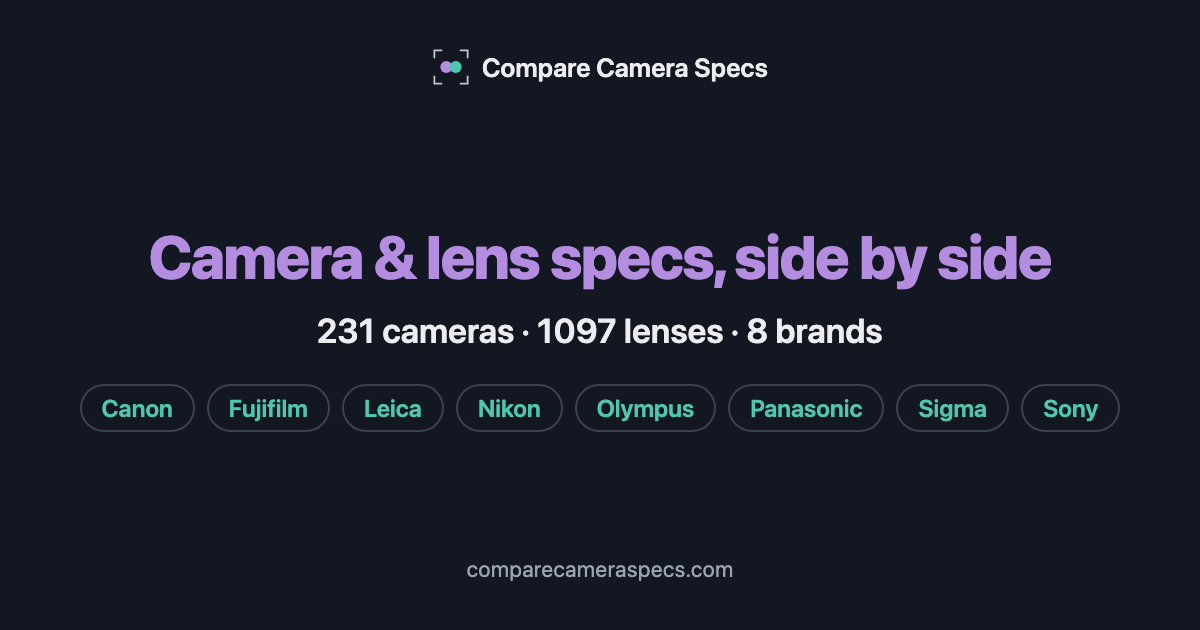
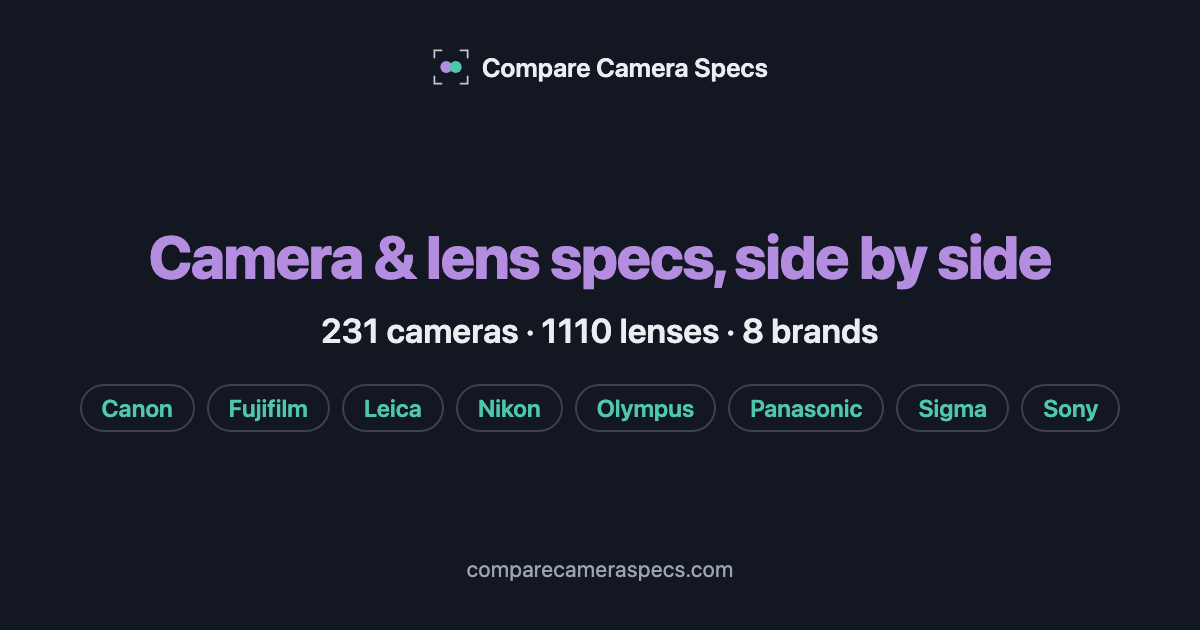
Nikon: add Thypoch Simera 28/35/50 and 10 SG-image Z lenses; fix Simera photos
- Thypoch Simera 28/35/50 from thypoch.com's per-mount tables (Z column),
  USD = Z variant regular price.
- SG-image: the 10 lenses on sony/ are all sold in Z; one spec card covers
  every mount, so the entries are cloned with mount z.
- Simera 35's main shots (and sony's Simera 28/35 images) show the Leica-M
  barrel: sony 28 now uses its Sony E variant image; sony/nikon 35 use a
  hooded shot with the mount hidden.

Claude-Session: https://claude.ai/code/session_01FYKXhtYCHKNL3CJLW6oPDG

Changed region(s): [[0.2467, 0.4825, 0.74, 0.5429]]

diff --git a/nikon/data.js b/nikon/data.js
@@ -2978,6 +2978,228 @@ const LENSES = {
     productUrl:'https://www.zeiss.com/photonics-and-optics/us/photography/products/lenses-for-mirrorless-system-cameras/otus-ml-lenses.html',
   },
 
+  /* ── Thypoch / SG-image (Nikon missing-lens pass, 2026-10-21) ── */
+  'thypoch-simera-28mm-f14': {
+    name:'Thypoch Simera 28mm f/1.4', manufacturer:'Thypoch', line:'Simera', type:'Prime',
+    mount:'z', focalLength:28, focalLengthMin:null, focalLengthMax:null, focalLengthEquiv:'28mm',
+    maxAperture:1.4, minAperture:16, weight:368, length:72.1, diameter:54,
+    filterThread:49, minFocusDist:40, maxMagnification:null,
+    elements:11, groups:7, blades:14, afType:'Manual',
+    weatherSealed:false, ois:false, oisStops:null, year:2024, discontinued:false,
+    imageUrl:'https://cdn.shopify.com/s/files/1/0756/5937/8928/files/Simera-28mm-f-1.4-Z-M-E-RF-X-Mount-Full-Frame-Manual-Lens-Thypoch-15970383.png',
+    imageSource: { url:'https://store.thypoch.com/products/simera-28mm-f-1-4-e-rf-x-z-mount', tier:'T1', title:'Thypoch official store', note:'the Black / Nikon Z Mount variant\'s own image', date:'2026-10-21' },
+    asin:null,
+    prices:{USD:549,AUD:null,EUR:null,GBP:null,JPY:null,CAD:null,SGD:null},
+    specSources: [{ url:'https://thypoch.com/en/simera/28mm', tier:'T1', title:'Thypoch Simera 28mm f/1.4 - Thypoch official page', note:'per-mount spec table (columns M/Z/RF/E/X), Z column: 72.1mm long without hood, ≈368g, flange 16mm; shared: front ø54mm, 11/7, 14 blades, 0.4m from the sensor plane, ø49 filter, f/1.4-16', date:'2026-10-21' }],
+    priceSource: { url:'https://store.thypoch.com/products/simera-28mm-f-1-4-e-rf-x-z-mount', tier:'T1', title:'Thypoch official store', note:'"Black / Nikon Z Mount" variant regular (compare-at) price $549; on sale at $399 at the time; store products.json 2026-10-21; non-USD not examined', date:'2026-10-21' },
+    priceIncomplete:true,
+    productUrl:'https://store.thypoch.com/products/simera-28mm-f-1-4-e-rf-x-z-mount',
+  },
+
+  'thypoch-simera-35mm-f14': {
+    name:'Thypoch Simera 35mm f/1.4', manufacturer:'Thypoch', line:'Simera', type:'Prime',
+    mount:'z', focalLength:35, focalLengthMin:null, focalLengthMax:null, focalLengthEquiv:'35mm',
+    maxAperture:1.4, minAperture:16, weight:309, length:66.4, diameter:54,
+    filterThread:49, minFocusDist:45, maxMagnification:null,
+    elements:9, groups:5, blades:14, afType:'Manual',
+    weatherSealed:false, ois:false, oisStops:null, year:2025, discontinued:false,
+    imageUrl:'https://cdn.shopify.com/s/files/1/0756/5937/8928/files/Simera-35mm-f-1.4-Z-M-E-RF-Mount-Full-Frame-Manual-Lens-Thypoch-103835225.png',
+    imageSource: { url:'https://store.thypoch.com/products/simera-35mm-camera-lens-f1-4', tier:'T1', title:'Thypoch official store', note:'black lens with hood, mount not visible; the listing\'s main product shots all show the shorter Leica M barrel', date:'2026-10-21' },
+    asin:null,
+    prices:{USD:549,AUD:null,EUR:null,GBP:null,JPY:null,CAD:null,SGD:null},
+    specSources: [{ url:'https://thypoch.com/en/simera/35mm', tier:'T1', title:'Thypoch Simera 35mm f/1.4 - Thypoch official page', note:'per-mount spec table (columns M/Z/RF/E), Z column: 66.4mm long without hood, ≈309g; shared: front ø54mm, 9/5, 14 blades, 0.45m from the sensor plane, ø49 filter, f/1.4-16', date:'2026-10-21' }],
+    priceSource: { url:'https://store.thypoch.com/products/simera-35mm-camera-lens-f1-4', tier:'T1', title:'Thypoch official store', note:'"Black / Nikon Z Mount / Type ii (with focus tab)" variant regular (compare-at) price $549; on sale at $369 at the time; store products.json 2026-10-21; non-USD not examined', date:'2026-10-21' },
+    priceIncomplete:true,
+    productUrl:'https://store.thypoch.com/products/simera-35mm-camera-lens-f1-4',
+  },
+
+  'thypoch-simera-50mm-f14': {
+    name:'Thypoch Simera 50mm f/1.4', manufacturer:'Thypoch', line:'Simera', type:'Prime',
+    mount:'z', focalLength:50, focalLengthMin:null, focalLengthMax:null, focalLengthEquiv:'50mm',
+    maxAperture:1.4, minAperture:16, weight:309, length:64.8, diameter:54,
+    filterThread:49, minFocusDist:45, maxMagnification:null,
+    elements:8, groups:6, blades:14, afType:'Manual',
+    weatherSealed:false, ois:false, oisStops:null, year:2025, discontinued:false,
+    imageUrl:'https://cdn.shopify.com/s/files/1/0756/5937/8928/files/Simera-50mm-f-1.4-Z-M-Full-frame-Manual-Lens-Thypoch-15975393.png',
+    imageSource: { url:'https://store.thypoch.com/products/simera-50mm-f-1-4-m-mount', tier:'T1', title:'Thypoch official store', note:'the Black / Nikon Z mount variant\'s own image', date:'2026-10-21' },
+    asin:null,
+    prices:{USD:549,AUD:null,EUR:null,GBP:null,JPY:null,CAD:null,SGD:null},
+    specSources: [{ url:'https://thypoch.com/en/simera/50mm', tier:'T1', title:'Thypoch Simera 50mm f/1.4 - Thypoch official page', note:'per-mount spec table (columns M/Z), Z column: 64.8mm long without hood, ≈309g, flange 16mm; shared: front ∮54mm, M49 filter, 8 elements in 6 groups, 14 blades, 0.45m from the sensor plane, F1.4-F16, full-frame image circle. Year from the store listing date (March 2025)', date:'2026-10-21' }],
+    priceSource: { url:'https://store.thypoch.com/products/simera-50mm-f-1-4-m-mount', tier:'T1', title:'Thypoch official store', note:'"Black / Nikon Z mount" variant regular (compare-at) price $549; on sale at $499 at the time (store products.json, 2026-10-21); non-USD not examined', date:'2026-10-21' },
+    priceIncomplete:true,
+    productUrl:'https://store.thypoch.com/products/simera-50mm-f-1-4-m-mount',
+  },
+
+  'sgimage-25mm-f18': {
+    name:'SG-image AF 25mm f/1.8', manufacturer:'SG-image', line:'AF', type:'Prime',
+    mount:'z', focalLength:25, focalLengthMin:null, focalLengthMax:null, focalLengthEquiv:'38mm',
+    maxAperture:1.8, minAperture:16, weight:145, length:32, diameter:67,
+    filterThread:52, minFocusDist:30, maxMagnification:0.1,
+    elements:7, groups:5, blades:9, afType:'Stepping Motor',
+    weatherSealed:false, ois:false, oisStops:null, year:2025, discontinued:false,
+    imageUrl:'https://cdn.shopify.com/s/files/1/0729/5051/3889/files/259055cac18bc2ff902e5a600b9c3c29.png',
+    imageSource: { url:'https://www.sg-image.com/products/aps-c-25mm-f1-8-%E8%87%AA%E5%8A%A8%E5%AF%B9%E7%84%A6%E9%95%9C%E5%A4%B4', tier:'T1', title:'SG-image official store', note:'same maker product shot as the Fujifilm entry (one listing for all mounts)', date:'2026-10-21' },
+    asin:null,
+    prices:{USD:125,AUD:null,EUR:null,GBP:null,JPY:null,CAD:null,SGD:null},
+    specSources: [{ url:'https://www.sg-image.com/products/aps-c-25mm-f1-8-%E8%87%AA%E5%8A%A8%E5%AF%B9%E7%84%A6%E9%95%9C%E5%A4%B4', tier:'T1', title:'SG-image official store', note:'Nikon Z taken from the same spec card as the Fujifilm entry, which gives one figure for all mounts (Z listed): "Specification" image (AF25.png) lists X among supported mounts: 145 g, Ø67×32 mm, 52 mm filter, 0.3 m, 1:10, 7/5, 9 blades, F1.8-F16. The same page\'s prose says "152g with a depth of 34mm"; the formal table is used (it matches the X-mount announcement figures)', date:'2026-10-21' }],
+    priceSource: { url:'https://www.sg-image.com/products/aps-c-25mm-f1-8-%E8%87%AA%E5%8A%A8%E5%AF%B9%E7%84%A6%E9%95%9C%E5%A4%B4', tier:'T1', title:'SG-image official store', note:'"黑色 / Z" variant price $125 (store products.json, 2026-10-21); non-USD not examined', date:'2026-10-21' },
+    priceIncomplete:true,
+    productUrl:'https://www.sg-image.com/products/aps-c-25mm-f1-8-%E8%87%AA%E5%8A%A8%E5%AF%B9%E7%84%A6%E9%95%9C%E5%A4%B4',
+  },
+
+  'sgimage-55mm-f18': {
+    name:'SG-image AF 55mm f/1.8', manufacturer:'SG-image', line:'AF', type:'Prime',
+    mount:'z', focalLength:55, focalLengthMin:null, focalLengthMax:null, focalLengthEquiv:'55mm',
+    maxAperture:1.8, minAperture:16, weight:365, length:78, diameter:69,
+    filterThread:58, minFocusDist:50, maxMagnification:0.11,
+    elements:10, groups:8, blades:9, afType:'Stepping Motor',
+    weatherSealed:false, ois:false, oisStops:null, year:2024, discontinued:false,
+    imageUrl:'https://cdn.shopify.com/s/files/1/0729/5051/3889/files/10df10e33f51f214ddd2996389658ca6_274e300a-8209-4454-8b8e-9882e668a19c.png',
+    imageSource: { url:'https://www.sg-image.com/products/af-55mm-f1-8', tier:'T1', title:'SG-image official store', note:'same maker product shot as the Fujifilm entry (one listing for all mounts)', date:'2026-10-21' },
+    asin:null,
+    prices:{USD:199,AUD:null,EUR:null,GBP:null,JPY:null,CAD:null,SGD:null},
+    specSources: [{ url:'https://www.sg-image.com/products/af-55mm-f1-8', tier:'T1', title:'SG-image official store', note:'Nikon Z taken from the same spec card as the Fujifilm entry, which gives one figure for all mounts (Z listed): "Specification" image (55.png), one table for E/X/Z: 365 g, Ø69×78 mm, 58 mm filter, 0.5 m, 1:9.1, 10/8, 9 blades, F1.8-F16. The maker calls it full-frame; the X-mount launch coverage called it APS-C, with identical figures', date:'2026-10-21' }],
+    priceSource: { url:'https://www.sg-image.com/products/af-55mm-f1-8', tier:'T1', title:'SG-image official store', note:'"Z" variant price $199 (store products.json, 2026-10-21); non-USD not examined', date:'2026-10-21' },
+    priceIncomplete:true,
+    productUrl:'https://www.sg-image.com/products/af-55mm-f1-8',
+  },
+
+  'sgimage-50mm-f14': {
+    name:'SG-image 50mm f/1.4', manufacturer:'SG-image', line:'MF', type:'Prime',
+    mount:'z', focalLength:50, focalLengthMin:null, focalLengthMax:null, focalLengthEquiv:'75mm',
+    maxAperture:1.4, minAperture:16, weight:249, length:42.5, diameter:58,
+    filterThread:49, minFocusDist:50, maxMagnification:0.12,
+    elements:6, groups:6, blades:10, afType:'Manual',
+    weatherSealed:false, ois:false, oisStops:null, year:2025, discontinued:false,
+    imageUrl:'https://cdn.shopify.com/s/files/1/0729/5051/3889/files/50mm_1.4.png',
+    imageSource: { url:'https://www.sg-image.com/products/mf-25mm-f2-8-aps-c-lens-copy', tier:'T1', title:'SG-image official store', note:'same maker product shot as the Fujifilm entry (one listing for all mounts)', date:'2026-10-21' },
+    asin:null,
+    prices:{USD:68,AUD:null,EUR:null,GBP:null,JPY:null,CAD:null,SGD:null},
+    specSources: [{ url:'https://www.sg-image.com/products/mf-25mm-f2-8-aps-c-lens-copy', tier:'T1', title:'SG-image 50mm f/1.4 official store page', note:'Nikon Z taken from the same spec card as the Fujifilm entry, which gives one figure for all mounts (Z listed): Specification card image: 6/6, 10 blades, 0.5m, 1:8.3, ø49 filter, approx. 249g, ø58 x 42.5mm (the store handle is recycled from a 25mm f/2.8 listing; title and spec card are the 50mm f/1.4). One figure for all mounts (E/X/Z/M43/EOS-M/R/L). Year from the store listing date (Aug 2025); the lens may have shipped earlier', date:'2026-10-21' }],
+    priceSource: { url:'https://www.sg-image.com/products/mf-25mm-f2-8-aps-c-lens-copy', tier:'T1', title:'SG-image official store', note:'"Z" variant price $68 (store products.json, 2026-10-21); non-USD not examined', date:'2026-10-21' },
+    priceIncomplete:true,
+    productUrl:'https://www.sg-image.com/products/mf-25mm-f2-8-aps-c-lens-copy',
+  },
+
+  'sgimage-35mm-f12': {
+    name:'SG-image 35mm f/1.2', manufacturer:'SG-image', line:'MF', type:'Prime',
+    mount:'z', focalLength:35, focalLengthMin:null, focalLengthMax:null, focalLengthEquiv:'53mm',
+    maxAperture:1.2, minAperture:16, weight:200, length:33, diameter:59,
+    filterThread:46, minFocusDist:40, maxMagnification:0.11,
+    elements:6, groups:5, blades:9, afType:'Manual',
+    weatherSealed:false, ois:false, oisStops:null, year:2025, discontinued:false,
+    imageUrl:'https://cdn.shopify.com/s/files/1/0729/5051/3889/files/35_1.2.png',
+    imageSource: { url:'https://www.sg-image.com/products/mf-35mm-f1-2-aps-c-lens', tier:'T1', title:'SG-image official store', note:'same maker product shot as the Fujifilm entry (one listing for all mounts)', date:'2026-10-21' },
+    asin:null,
+    prices:{USD:98,AUD:null,EUR:null,GBP:null,JPY:null,CAD:null,SGD:null},
+    specSources: [{ url:'https://www.sg-image.com/products/mf-35mm-f1-2-aps-c-lens', tier:'T1', title:'SG-image 35mm f/1.2 official store page', note:'Nikon Z taken from the same spec card as the Fujifilm entry, which gives one figure for all mounts (Z listed): Specification card image: 6/5, 9 blades, 0.4m, 1:9.1, ø46 filter, approx. 200g, ø59 x 33mm. One figure for all mounts (E/X/Z/M43/EOS-M/R/L). Year from the store listing date (Aug 2025); the lens may have shipped earlier', date:'2026-10-21' }],
+    priceSource: { url:'https://www.sg-image.com/products/mf-35mm-f1-2-aps-c-lens', tier:'T1', title:'SG-image official store', note:'"Z" variant price $98 (store products.json, 2026-10-21); non-USD not examined', date:'2026-10-21' },
+    priceIncomplete:true,
+    productUrl:'https://www.sg-image.com/products/mf-35mm-f1-2-aps-c-lens',
+  },
+
+  'sgimage-35mm-f095': {
+    name:'SG-image 35mm f/0.95', manufacturer:'SG-image', line:'MF', type:'Prime',
+    mount:'z', focalLength:35, focalLengthMin:null, focalLengthMax:null, focalLengthEquiv:'53mm',
+    maxAperture:0.95, minAperture:16, weight:393, length:62, diameter:58,
+    filterThread:52, minFocusDist:35, maxMagnification:0.13,
+    elements:12, groups:9, blades:12, afType:'Manual',
+    weatherSealed:false, ois:false, oisStops:null, year:2025, discontinued:false,
+    imageUrl:'https://cdn.shopify.com/s/files/1/0729/5051/3889/files/35_0.95.png',
+    imageSource: { url:'https://www.sg-image.com/products/mf-35mm-f0-95-ultra-bright-aps-c-lens', tier:'T1', title:'SG-image official store', note:'same maker product shot as the Fujifilm entry (one listing for all mounts)', date:'2026-10-21' },
+    asin:null,
+    prices:{USD:228,AUD:null,EUR:null,GBP:null,JPY:null,CAD:null,SGD:null},
+    specSources: [{ url:'https://www.sg-image.com/products/mf-35mm-f0-95-ultra-bright-aps-c-lens', tier:'T1', title:'SG-image 35mm f/0.95 official store page', note:'Nikon Z taken from the same spec card as the Fujifilm entry, which gives one figure for all mounts (Z listed): Specification card image: 12/9, 12 blades, 0.35m, 1:7.7, ø52 filter, approx. 393g, ø58 x 62mm. One figure for all mounts (E/X/Z/M43/EOS-M/R/L). Year from the store listing date (Aug 2025); the lens may have shipped earlier', date:'2026-10-21' }],
+    priceSource: { url:'https://www.sg-image.com/products/mf-35mm-f0-95-ultra-bright-aps-c-lens', tier:'T1', title:'SG-image official store', note:'"Z" variant price $228 (store products.json, 2026-10-21); non-USD not examined', date:'2026-10-21' },
+    priceIncomplete:true,
+    productUrl:'https://www.sg-image.com/products/mf-35mm-f0-95-ultra-bright-aps-c-lens',
+  },
+
+  'sgimage-25mm-f18-mf': {
+    name:'SG-image 25mm f/1.8 (MF)', manufacturer:'SG-image', line:'MF', type:'Prime',
+    mount:'z', focalLength:25, focalLengthMin:null, focalLengthMax:null, focalLengthEquiv:'38mm',
+    maxAperture:1.8, minAperture:16, weight:186, length:30, diameter:60,
+    filterThread:43, minFocusDist:25, maxMagnification:0.13,
+    elements:7, groups:5, blades:7, afType:'Manual',
+    weatherSealed:false, ois:false, oisStops:null, year:2025, discontinued:false,
+    imageUrl:'https://cdn.shopify.com/s/files/1/0729/5051/3889/files/25mm.png',
+    imageSource: { url:'https://www.sg-image.com/products/mf-18mm-f6-3-aps-c-ultra-slim-pancake-lens-copy', tier:'T1', title:'SG-image official store', note:'same maker product shot as the Fujifilm entry (one listing for all mounts)', date:'2026-10-21' },
+    asin:null,
+    prices:{USD:78,AUD:null,EUR:null,GBP:null,JPY:null,CAD:null,SGD:null},
+    specSources: [{ url:'https://www.sg-image.com/products/mf-18mm-f6-3-aps-c-ultra-slim-pancake-lens-copy', tier:'T1', title:'SG-image 25mm f/1.8 (MF) official store page', note:'Nikon Z taken from the same spec card as the Fujifilm entry, which gives one figure for all mounts (Z listed): Specification card image: 7/5, 7 blades, 0.25m, 1:7.7, ø43 filter, approx. 186g, ø60 x 30mm (handle recycled from an 18mm listing; title and spec card are the MF 25mm f/1.8). Distinct from the AF 25mm f/1.8 (sgimage-25mm-f18). One figure for all mounts (E/X/Z/M43/EOS-M/R/L). Year from the store listing date (Aug 2025); the lens may have shipped earlier', date:'2026-10-21' }],
+    priceSource: { url:'https://www.sg-image.com/products/mf-18mm-f6-3-aps-c-ultra-slim-pancake-lens-copy', tier:'T1', title:'SG-image official store', note:'"Z" variant price $78 (store products.json, 2026-10-21); non-USD not examined', date:'2026-10-21' },
+    priceIncomplete:true,
+    productUrl:'https://www.sg-image.com/products/mf-18mm-f6-3-aps-c-ultra-slim-pancake-lens-copy',
+  },
+
+  'sgimage-24mm-f63': {
+    name:'SG-image 24mm f/6.3 Pancake', manufacturer:'SG-image', line:'MF', type:'Prime',
+    mount:'z', focalLength:24, focalLengthMin:null, focalLengthMax:null, focalLengthEquiv:'24mm',
+    maxAperture:6.3, minAperture:6.3, weight:74, length:16.7, diameter:58,
+    filterThread:null, minFocusDist:25, maxMagnification:0.125,
+    elements:6, groups:5, blades:null, afType:'Manual',
+    weatherSealed:false, ois:false, oisStops:null, year:2025, discontinued:false,
+    imageUrl:'https://cdn.shopify.com/s/files/1/0729/5051/3889/files/800_-01.png',
+    imageSource: { url:'https://www.sg-image.com/products/mf-24mm-f6-3-full-frame-ultra-slim-pancake-lens', tier:'T1', title:'SG-image official store', note:'same maker product shot as the Fujifilm entry (one listing for all mounts)', date:'2026-10-21' },
+    asin:null,
+    prices:{USD:76,AUD:null,EUR:null,GBP:null,JPY:null,CAD:null,SGD:null},
+    specSources: [{ url:'https://www.sg-image.com/products/mf-24mm-f6-3-full-frame-ultra-slim-pancake-lens', tier:'T1', title:'SG-image 24mm f/6.3 Pancake official store page', note:'Nikon Z taken from the same spec card as the Fujifilm entry, which gives one figure for all mounts (Z listed): Specification card image: full-frame pancake, fixed f/6.3 (blades null), 6/5, 0.25m, 1:8.0, approx. 74g, ø58 x 16.7mm; filter listed as "37/49mm" (ambiguous, left null). One figure for all mounts (E/X/Z/M43/EOS-M/R/L). Year from the store listing date (Aug 2025); the lens may have shipped earlier', date:'2026-10-21' }],
+    priceSource: { url:'https://www.sg-image.com/products/mf-24mm-f6-3-full-frame-ultra-slim-pancake-lens', tier:'T1', title:'SG-image official store', note:'"Z / 黑色" variant price $76 (store products.json, 2026-10-21); non-USD not examined', date:'2026-10-21' },
+    priceIncomplete:true,
+    productUrl:'https://www.sg-image.com/products/mf-24mm-f6-3-full-frame-ultra-slim-pancake-lens',
+  },
+
+  'sgimage-12mm-f28': {
+    name:'SG-image 12mm f/2.8', manufacturer:'SG-image', line:'MF', type:'Prime',
+    mount:'z', focalLength:12, focalLengthMin:null, focalLengthMax:null, focalLengthEquiv:'18mm',
+    maxAperture:2.8, minAperture:16, weight:334, length:60, diameter:63,
+    filterThread:null, minFocusDist:20, maxMagnification:0.1,
+    elements:10, groups:8, blades:7, afType:'Manual',
+    weatherSealed:false, ois:false, oisStops:null, year:2025, discontinued:false,
+    imageUrl:'https://cdn.shopify.com/s/files/1/0729/5051/3889/files/1_3b5ab1a7-3b9f-45ff-86d5-f90397c4a958.png',
+    imageSource: { url:'https://www.sg-image.com/products/mf-12mm-f2-8-aps-c-ultra-wide-lens-copy', tier:'T1', title:'SG-image official store', note:'same maker product shot as the Fujifilm entry (one listing for all mounts)', date:'2026-10-21' },
+    asin:null,
+    prices:{USD:138,AUD:null,EUR:null,GBP:null,JPY:null,CAD:null,SGD:null},
+    specSources: [{ url:'https://www.sg-image.com/products/mf-12mm-f2-8-aps-c-ultra-wide-lens-copy', tier:'T1', title:'SG-image 12mm f/2.8 official store page', note:'Nikon Z taken from the same spec card as the Fujifilm entry, which gives one figure for all mounts (Z listed): Specification card image: rectilinear ultra-wide, 10/8, 7 blades, 0.2m, 1:10, no filter, approx. 334g, ø63 x 60mm. One figure for all mounts (E/X/Z/M43/EOS-M/R/L). Year from the store listing date (Aug 2025); the lens may have shipped earlier', date:'2026-10-21' }],
+    priceSource: { url:'https://www.sg-image.com/products/mf-12mm-f2-8-aps-c-ultra-wide-lens-copy', tier:'T1', title:'SG-image official store', note:'"Z" variant price $138 (store products.json, 2026-10-21); non-USD not examined', date:'2026-10-21' },
+    priceIncomplete:true,
+    productUrl:'https://www.sg-image.com/products/mf-12mm-f2-8-aps-c-ultra-wide-lens-copy',
+  },
+
+  'sgimage-7-5mm-f28-fisheye': {
+    name:'SG-image 7.5mm f/2.8 Fisheye', manufacturer:'SG-image', line:'MF', type:'Prime',
+    mount:'z', focalLength:7.5, focalLengthMin:null, focalLengthMax:null, focalLengthEquiv:'11mm',
+    maxAperture:2.8, minAperture:16, weight:326, length:54, diameter:63,
+    filterThread:null, minFocusDist:12, maxMagnification:null,
+    elements:11, groups:9, blades:7, afType:'Manual',
+    weatherSealed:false, ois:false, oisStops:null, year:2025, discontinued:false,
+    imageUrl:'https://cdn.shopify.com/s/files/1/0729/5051/3889/files/19.png',
+    imageSource: { url:'https://www.sg-image.com/products/mf-7-5mm-f2-8-aps-c-fisheye-lens', tier:'T1', title:'SG-image official store', note:'same maker product shot as the Fujifilm entry (one listing for all mounts)', date:'2026-10-21' },
+    asin:null,
+    prices:{USD:128,AUD:null,EUR:null,GBP:null,JPY:null,CAD:null,SGD:null},
+    specSources: [{ url:'https://www.sg-image.com/products/mf-7-5mm-f2-8-aps-c-fisheye-lens', tier:'T1', title:'SG-image 7.5mm f/2.8 Fisheye official store page', note:'Nikon Z taken from the same spec card as the Fujifilm entry, which gives one figure for all mounts (Z listed): Specification card image: 168° fisheye, 11/9, 7 blades, 0.12m, no filter, approx. 326g, ø63 x 54mm. Card says magnification "1:1.1", implausible for this lens and likely a misprint; left null. One figure for all mounts (E/X/Z/M43/EOS-M/R/L). Year from the store listing date (Aug 2025); the lens may have shipped earlier', date:'2026-10-21' }],
+    priceSource: { url:'https://www.sg-image.com/products/mf-7-5mm-f2-8-aps-c-fisheye-lens', tier:'T1', title:'SG-image official store', note:'"Z" variant price $128 (store products.json, 2026-10-21); non-USD not examined', date:'2026-10-21' },
+    priceIncomplete:true,
+    productUrl:'https://www.sg-image.com/products/mf-7-5mm-f2-8-aps-c-fisheye-lens',
+  },
+
+  'sgimage-50mm-f18': {
+    name:'SG-image 50mm f/1.8 Shaped Aperture', manufacturer:'SG-image', line:'MF', type:'Prime',
+    mount:'z', focalLength:50, focalLengthMin:null, focalLengthMax:null, focalLengthEquiv:'50mm',
+    maxAperture:1.8, minAperture:1.8, weight:311, length:48, diameter:69,
+    filterThread:58, minFocusDist:50, maxMagnification:0.13,
+    elements:7, groups:5, blades:null, afType:'Manual',
+    weatherSealed:false, ois:false, oisStops:null, year:2025, discontinued:false,
+    imageUrl:'https://cdn.shopify.com/s/files/1/0729/5051/3889/files/13_3eaacd43-9a62-4582-b9de-bb3063ec86c2.png',
+    imageSource: { url:'https://www.sg-image.com/products/50mm-f1-8-mf-full-frame-lens-with-shaped-aperture', tier:'T1', title:'SG-image official store', note:'same maker product shot as the Fujifilm entry (one listing for all mounts)', date:'2026-10-21' },
+    asin:null,
+    prices:{USD:192,AUD:null,EUR:null,GBP:null,JPY:null,CAD:null,SGD:null},
+    specSources: [{ url:'https://www.sg-image.com/products/50mm-f1-8-mf-full-frame-lens-with-shaped-aperture', tier:'T1', title:'SG-image 50mm f/1.8 Shaped Aperture official store page', note:'Nikon Z taken from the same spec card as the Fujifilm entry, which gives one figure for all mounts (Z listed): Specification card image: full-frame, fixed f/1.8 with interchangeable shaped-aperture plates (no iris; blades null, min = max), 7/5, 0.5m, 1:7.7, ø58 filter, approx. 311g, ø69 x 48mm. One figure for all mounts (E/X/Z/M43/EOS-M/R/L). Year from the store listing date (Aug 2025); the lens may have shipped earlier', date:'2026-10-21' }],
+    priceSource: { url:'https://www.sg-image.com/products/50mm-f1-8-mf-full-frame-lens-with-shaped-aperture', tier:'T1', title:'SG-image official store', note:'"Z" variant price $192 (store products.json, 2026-10-21); non-USD not examined', date:'2026-10-21' },
+    priceIncomplete:true,
+    productUrl:'https://www.sg-image.com/products/50mm-f1-8-mf-full-frame-lens-with-shaped-aperture',
+  },
+
   /* ── Other (Yongnuo AF + budget makers) ── */
   'yongnuo-35mm-f2': {
     name:'Yongnuo YN35mm f/2Z DF DSM', manufacturer:'Yongnuo', line:'DF DSM', type:'Prime',
@@ -3991,6 +4213,8 @@ const LENS_DROPDOWN_GROUPS = [
   { label: '── Zeiss ──', ids: ['zeiss-otus-ml-35mm-f14', 'zeiss-otus-ml-50mm-f14', 'zeiss-otus-ml-85mm-f14'] },
   { label: '── Laowa ──', ids: ['laowa-10mm-f4-cookie', 'laowa-10mm-f28-af', 'laowa-12mm-f28-lite-zero-d', 'laowa-15mm-f2', 'laowa-15mm-f45-macro', 'laowa-15mm-f5-cookie', 'laowa-15mm-f45-shift', 'laowa-17mm-f4-tilt-shift', 'laowa-20mm-f4-shift', 'laowa-25mm-f28-25-5x-macro', 'laowa-35mm-f28-tilt-shift-macro', 'laowa-55mm-f28-tilt-shift-macro', 'laowa-58mm-f28-2x-macro', 'laowa-65mm-f28-2x-macro', 'laowa-85mm-f56-2x-macro', 'laowa-90mm-f28-macro', 'laowa-100mm-f28-2x-macro', 'laowa-100mm-f28-tilt-shift-macro', 'laowa-argus-28mm-f12', 'laowa-argus-33mm-f095', 'laowa-8-15mm-f28-fisheye', 'laowa-8-16mm-f35-5', 'laowa-10-18mm-f45-56', 'laowa-12-24mm-f56-shift', 'laowa-aksen-45mm-f28', 'laowa-aksen-17-5mm-f17', 'laowa-4-5-10mm-f28-fisheye', 'laowa-200mm-f2-af', 'laowa-180mm-f45-macro', 'laowa-11mm-f45-rl', 'laowa-14mm-f4-rl', 'laowa-9mm-f56-rl', 'laowa-argus-35mm-f095', 'laowa-argus-45mm-f095', 'laowa-9mm-f28', 'laowa-12-24mm-f56', 'laowa-4mm-f28-fisheye', 'laowa-argus-25mm-f095'] },
   { label: '── Samyang ──', ids: ['samyang-14mm-f28', 'samyang-85mm-f14'] },
+  { label: '── Thypoch ──', ids: ['thypoch-simera-28mm-f14', 'thypoch-simera-35mm-f14', 'thypoch-simera-50mm-f14'] },
+  { label: '── SG-image ──', ids: ['sgimage-25mm-f18', 'sgimage-55mm-f18', 'sgimage-50mm-f14', 'sgimage-35mm-f12', 'sgimage-35mm-f095', 'sgimage-25mm-f18-mf', 'sgimage-24mm-f63', 'sgimage-12mm-f28', 'sgimage-7-5mm-f28-fisheye', 'sgimage-50mm-f18'] },
   { label: '── Yongnuo ──', ids: ['yongnuo-11mm-f18', 'yongnuo-23mm-f14', 'yongnuo-33mm-f14', 'yongnuo-35mm-f18', 'yongnuo-35mm-f2', 'yongnuo-50mm-f18-da', 'yongnuo-50mm-f18', 'yongnuo-56mm-f14', 'yongnuo-85mm-f18'] },
   { label: '── TTArtisan ──', ids: ['ttartisan-27mm-f28', 'ttartisan-17mm-f18-air', 'ttartisan-23mm-f18', 'ttartisan-35mm-f18-ii', 'ttartisan-40mm-f2', 'ttartisan-50mm-f18-neo', 'ttartisan-56mm-f18', 'ttartisan-75mm-f2', 'ttartisan-85mm-f18-neo', 'ttartisan-50mm-f12', 'ttartisan-tilt-35mm-f14', 'ttartisan-14mm-f28-asph', 'ttartisan-40mm-f28-macro', 'ttartisan-tilt-shift-17mm-f4-asph', 'ttartisan-35mm-f14', 'ttartisan-11mm-f28-fisheye'] },
   { label: '── 7Artisans ──', ids: ['7artisans-27mm-f28', '7artisans-10mm-f28', '7artisans-25mm-f18-lite', '7artisans-35mm-f18-lite', '7artisans-50mm-f18-lite', '7artisans-35mm-f18', '7artisans-40mm-f25-lite', '7artisans-50mm-f18', '7artisans-85mm-f18', '7artisans-10mm-f28-ii', '7artisans-75mm-f14', '7artisans-18mm-f56', '7artisans-10mm-f25-af-fisheye', '7artisans-24mm-f18', '7artisans-135mm-f18', '7artisans-14mm-f28', '7artisans-10mm-f35', '7artisans-10mm-f28-fisheye', '7artisans-25mm-f18', '7artisans-9mm-f56', '7artisans-60mm-f28-2x-macro', '7artisans-18mm-f63-ii'] },

diff --git a/sony/data.js b/sony/data.js
@@ -3644,8 +3644,8 @@ const LENSES = {
     filterThread:49, minFocusDist:40, maxMagnification:null,
     elements:11, groups:7, blades:14, afType:'Manual',
     weatherSealed:false, ois:false, oisStops:null, year:2024, discontinued:false,
-    imageUrl:'https://cdn.shopify.com/s/files/1/0756/5937/8928/files/Simera-28mm-f-1.4-Z-M-E-RF-X-Mount-Full-Frame-Manual-Lens-Thypoch-15968216.png',
-    imageSource: { url:'https://store.thypoch.com/products/simera-28mm-f-1-4-e-rf-x-z-mount', tier:'T1', title:'Thypoch official store', note:'first product image, lens alone', date:'2026-10-21' },
+    imageUrl:'https://cdn.shopify.com/s/files/1/0756/5937/8928/files/Simera-28mm-f-1.4-Z-M-E-RF-X-Mount-Full-Frame-Manual-Lens-Thypoch-15970256.png',
+    imageSource: { url:'https://store.thypoch.com/products/simera-28mm-f-1-4-e-rf-x-z-mount', tier:'T1', title:'Thypoch official store', note:'the Black / Sony E Mount variant\'s own image (the product\'s first image, used until 2026-10-21, shows the shorter Leica M barrel)', date:'2026-10-21' },
     asin:null,
     prices:{USD:549,AUD:null,EUR:null,GBP:null,JPY:null,CAD:null,SGD:null},
     specSources: [{ url:'https://thypoch.com/en/simera/28mm', tier:'T1', title:'Thypoch Simera 28mm f/1.4 - Thypoch official page', note:'per-mount spec table (columns M/Z/RF/E/X), E column: 70.3mm long without hood, ≈344g, flange 18mm; shared: front ø54mm, 11/7, 14 blades, 0.4m from the sensor plane, ø49 filter, f/1.4-16', date:'2026-10-21' }],
@@ -3661,8 +3661,8 @@ const LENSES = {
     filterThread:49, minFocusDist:45, maxMagnification:null,
     elements:9, groups:5, blades:14, afType:'Manual',
     weatherSealed:false, ois:false, oisStops:null, year:2025, discontinued:false,
-    imageUrl:'https://cdn.shopify.com/s/files/1/0756/5937/8928/files/Simera-35mm-f-1.4-Z-M-E-RF-Mount-Full-Frame-Manual-Lens-Thypoch-15966736.png',
-    imageSource: { url:'https://store.thypoch.com/products/simera-35mm-camera-lens-f1-4', tier:'T1', title:'Thypoch official store', note:'first product image, lens alone', date:'2026-10-21' },
+    imageUrl:'https://cdn.shopify.com/s/files/1/0756/5937/8928/files/Simera-35mm-f-1.4-Z-M-E-RF-Mount-Full-Frame-Manual-Lens-Thypoch-103835225.png',
+    imageSource: { url:'https://store.thypoch.com/products/simera-35mm-camera-lens-f1-4', tier:'T1', title:'Thypoch official store', note:'black lens with hood, mount not visible; the listing\'s main product shots all show the shorter Leica M barrel (one was used until 2026-10-21)', date:'2026-10-21' },
     asin:null,
     prices:{USD:549,AUD:null,EUR:null,GBP:null,JPY:null,CAD:null,SGD:null},
     specSources: [{ url:'https://thypoch.com/en/simera/35mm', tier:'T1', title:'Thypoch Simera 35mm f/1.4 - Thypoch official page', note:'per-mount spec table (columns M/Z/RF/E), E column: 64.6mm long without hood, ≈296g; shared: front ø54mm, 9/5, 14 blades, 0.45m from the sensor plane, ø49 filter, f/1.4-16', date:'2026-10-21' }],

diff --git a/nikon/index.html b/nikon/index.html
@@ -5,17 +5,17 @@
   <meta name="viewport" content="width=device-width, initial-scale=1.0">
   <title>Nikon Z Camera &amp; Lens Comparison</title>
   <!-- seo:begin (generated by scripts/generate-seo.js — do not edit by hand) -->
-  <meta name="description" content="Compare 16 Nikon cameras and 212 lenses side by side — price, sensor, autofocus, stabilization and video, in 7 currencies.">
+  <meta name="description" content="Compare 16 Nikon cameras and 225 lenses side by side — price, sensor, autofocus, stabilization and video, in 7 currencies.">
   <link rel="canonical" href="https://comparecameraspecs.com/nikon/">
   <meta property="og:type" content="website">
   <meta property="og:site_name" content="Compare Camera Specs">
   <meta property="og:title" content="Nikon Camera &amp; Lens Comparison">
-  <meta property="og:description" content="Compare 16 Nikon cameras and 212 lenses side by side — price, sensor, autofocus, stabilization and video, in 7 currencies.">
+  <meta property="og:description" content="Compare 16 Nikon cameras and 225 lenses side by side — price, sensor, autofocus, stabilization and video, in 7 currencies.">
   <meta property="og:url" content="https://comparecameraspecs.com/nikon/">
   <meta property="og:image" content="https://comparecameraspecs.com/og/nikon.png">
   <meta property="og:image:width" content="1200">
   <meta property="og:image:height" content="630">
-  <meta property="og:image:alt" content="Nikon: compare 16 cameras and 212 lenses side by side">
+  <meta property="og:image:alt" content="Nikon: compare 16 cameras and 225 lenses side by side">
   <meta name="twitter:card" content="summary_large_image">
   <meta name="twitter:image" content="https://comparecameraspecs.com/og/nikon.png">
   <script>
@@ -63,7 +63,7 @@
   <!-- seo:body:begin (generated by scripts/generate-seo.js — do not edit by hand) -->
   <section class="seo-links" aria-label="Popular Nikon comparisons">
     <h2>Popular Nikon camera comparisons</h2>
-    <p>Compare all 16 Nikon cameras and 212 lenses side by side — price, sensor, autofocus, stabilization and video, in seven currencies. Popular head-to-head comparisons:</p>
+    <p>Compare all 16 Nikon cameras and 225 lenses side by side — price, sensor, autofocus, stabilization and video, in seven currencies. Popular head-to-head comparisons:</p>
     <ul>
       <li><a href="vs/z6-iii-vs-z6-ii">Nikon Z6 III vs Z6 II</a></li>
       <li><a href="vs/z6-ii-vs-z6">Nikon Z6 II vs Z6</a></li>

diff --git a/index.html b/index.html
@@ -88,7 +88,7 @@
   <meta property="og:image" content="https://comparecameraspecs.com/og/home.png">
   <meta property="og:image:width" content="1200">
   <meta property="og:image:height" content="630">
-  <meta property="og:image:alt" content="Compare 231 cameras and 1097 lenses from 8 brands side by side">
+  <meta property="og:image:alt" content="Compare 231 cameras and 1110 lenses from 8 brands side by side">
   <meta name="twitter:card" content="summary_large_image">
   <meta name="twitter:image" content="https://comparecameraspecs.com/og/home.png">
   <script>
@@ -214,7 +214,7 @@
             <div class="brand-card-body">
               <div class="brand-name">Nikon</div>
               <div class="brand-mount">Z-Mount</div>
-              <div class="brand-count">16 cameras · 212 lenses</div>
+              <div class="brand-count">16 cameras · 225 lenses</div>
               <div class="brand-go">Compare &rarr;</div>
             </div>
           </a>

diff --git a/about.html b/about.html
@@ -15,7 +15,7 @@
   <meta property="og:image" content="https://comparecameraspecs.com/og/home.png">
   <meta property="og:image:width" content="1200">
   <meta property="og:image:height" content="630">
-  <meta property="og:image:alt" content="Compare 231 cameras and 1097 lenses from 8 brands side by side">
+  <meta property="og:image:alt" content="Compare 231 cameras and 1110 lenses from 8 brands side by side">
   <meta name="twitter:card" content="summary_large_image">
   <meta name="twitter:image" content="https://comparecameraspecs.com/og/home.png">
   <script>

diff --git a/privacy.html b/privacy.html
@@ -15,7 +15,7 @@
   <meta property="og:image" content="https://comparecameraspecs.com/og/home.png">
   <meta property="og:image:width" content="1200">
   <meta property="og:image:height" content="630">
-  <meta property="og:image:alt" content="Compare 231 cameras and 1097 lenses from 8 brands side by side">
+  <meta property="og:image:alt" content="Compare 231 cameras and 1110 lenses from 8 brands side by side">
   <meta name="twitter:card" content="summary_large_image">
   <meta name="twitter:image" content="https://comparecameraspecs.com/og/home.png">
   <script>

diff --git a/tests/data/links-offline.test.js b/tests/data/links-offline.test.js
@@ -183,8 +183,8 @@ const KNOWN_SHARED_LINKS = new Map([
 // +19 TTArtisan, +28 7Artisans, +12 Meike, +13 Thypoch/SG-image.
 // Nikon missing-lens pass (add-nikon-missing-thirdparty-lenses, 2026-10-21+),
 // same approach: +1 Tamron, +14 Laowa, +2 Voigtländer, +3 Zeiss, +7 TTArtisan,
-// +13 7Artisans, +4 Meike.
-const ASIN_GAP_BASELINE = 315;
+// +13 7Artisans, +4 Meike, +13 Thypoch/SG-image.
+const ASIN_GAP_BASELINE = 328;
 
 const allItems = () => brandDirs().flatMap(brand => {
   const { data } = loadBrand(brand);

diff --git a/openspec/changes/add-nikon-missing-thirdparty-lenses/PROGRESS.md b/openspec/changes/add-nikon-missing-thirdparty-lenses/PROGRESS.md
@@ -1,6 +1,7 @@
 # Progress — Nikon missing third-party lenses
 
-**Resume at:** 2.7 Thypoch / SG-image
+**Resume at:** 2.8 Yongnuo
+**Thypoch / SG-image done 2026-10-21 (13 lenses):** Thypoch Simera 28/35/50 from thypoch.com's per-mount tables (Z column); USD = Z variant regular (compare-at) $549. SG-image: all 10 Sony entries are sold in Z at the same price, and SG-image's spec cards give one figure for every mount, so the entries were cloned with mount z. **Image fix:** the Simera 35's main shots (and sony's Simera 28/35 images) show the shorter Leica-M barrel — sony 28 now uses its Sony E variant image, sony/nikon 35 a hooded shot with the mount hidden.
 **Meike done 2026-10-21 (4 lenses):** AF 85 f/1.4 MIX II, AF 56 f/1.7 Air, AF 23 f/1.4, AF 35 f/2. Shared optics from the Sony entries; Z size/weight from B&H Nikon Z listings; USD and image from Meike's Z store listing (all USD equal the Sony E prices).
 **7Artisans done 2026-10-21 (13 lenses):** 10 f/2.8 II, 75 f/1.4, 18 f/5.6, AF 10 f/2.5 Fisheye, AF 24 f/1.8, AF 135 f/1.8, 14 f/2.8, 10 f/3.5, 10 f/2.8 Fisheye, 25 f/1.8, 9 f/5.6, 60 f/2.8 2X Macro, 18 f/6.3 II. Shared optics cloned from the Sony entries; Z size/weight from each B&H Nikon Z listing (7Artisans publishes specs as images). USD = store Z variant regular (compare-at) price — all equal to the Sony E prices.
 **TTArtisan done 2026-10-21 (7 lenses):** 50 f/1.2, Tilt 35 f/1.4, 14 f/2.8, 40 f/2.8 Macro, Tilt-Shift 17 f/4, 35 f/1.4, 11 f/2.8 Fisheye. Maker tables give one spec set for all mounts (weight as a range); the Z size/weight are each lens's B&H Nikon Z listing. USD = store Z variant price (no compare-at). Z-specific product shots where the store has them (SKU-Z files). Nikon's "Other" dropdown group split into Yongnuo / TTArtisan / 7Artisans / Meike, as on sony/.
@@ -36,7 +37,8 @@ Makers' store catalogues (Shopify `products.json`, venuslens Woo Store API, Cosi
 | Voigtländer + Zeiss | 5 | 5 | 0 | 63bfe4e |
 | TTArtisan | 22 | 7 | 15 | f2506c2 |
 | 7Artisans | 25 | 13 | 12 | 0381050 |
-| Meike | 18 | 4 | 14 | (this commit) |
+| Meike | 18 | 4 | 14 | 2bb2b38 |
+| Thypoch / SG-image | 13 | 13 | 0 | (this commit) |
 
 ## Skipped (with reason)
 - Laowa ACRIS 35mm f/2.8 1X Macro (Z AF version, $449, 570g): Laowa gives dimensions for EF only and B&H's Z listing has none — Z length unknown.

diff --git a/openspec/changes/add-nikon-missing-thirdparty-lenses/tasks.md b/openspec/changes/add-nikon-missing-thirdparty-lenses/tasks.md
@@ -10,7 +10,7 @@
 - [x] 2.4 TTArtisan
 - [x] 2.5 7Artisans
 - [x] 2.6 Meike
-- [ ] 2.7 Thypoch / SG-image
+- [x] 2.7 Thypoch / SG-image
 - [ ] 2.8 Yongnuo
 
 ## 3. Verify
